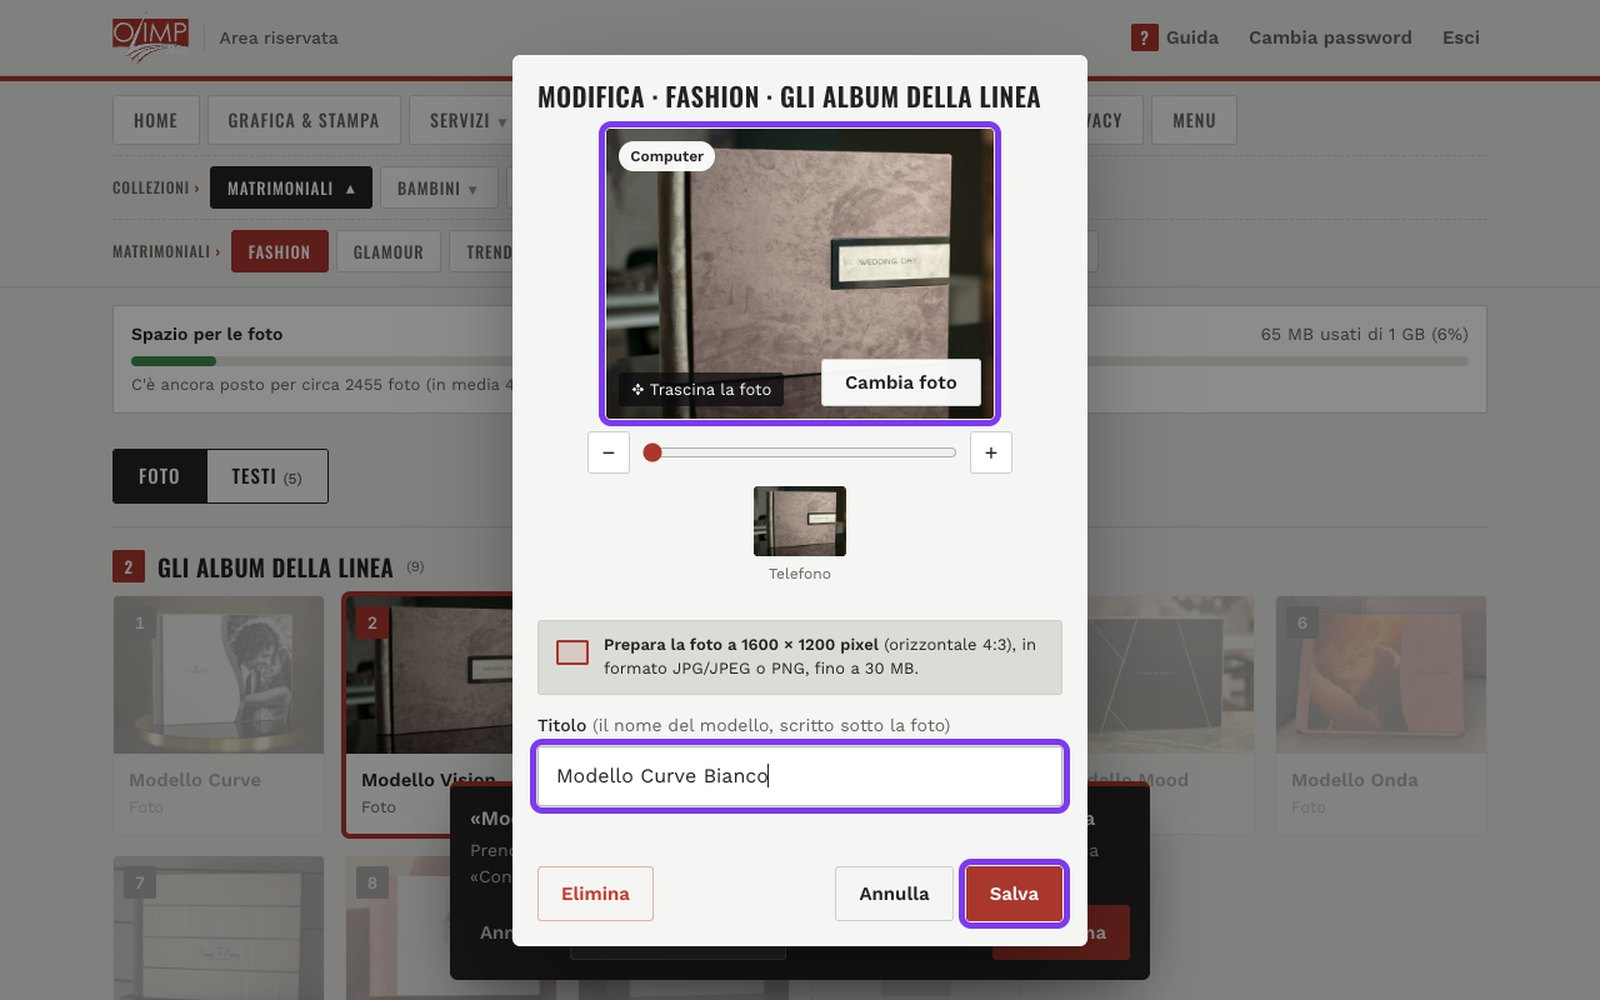
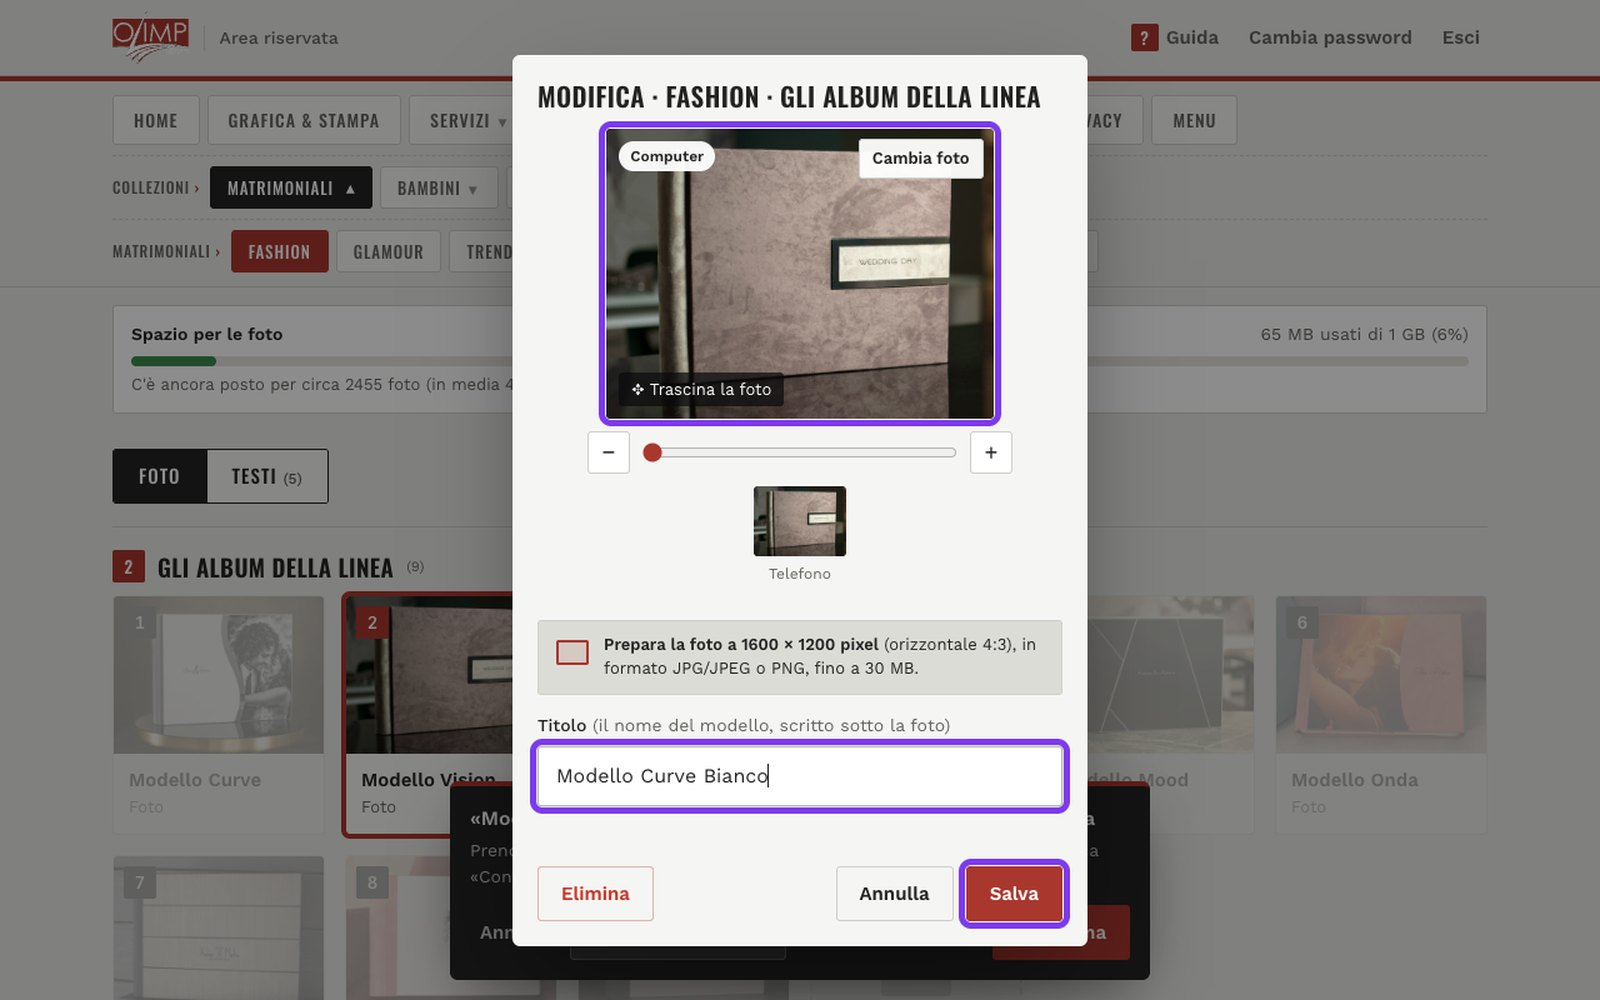
Area riservata: «Cambia foto» in alto a destra nell'anteprima da trascinare (come inkubo 6.14); schermate della guida rifatte; versione 3.31 nel LEGGIMI

Changed region(s): [[0.5, 0.341, 0.625, 0.434], [0.5312, 0.124, 0.625, 0.186], [0.4375, 0.093, 0.4688, 0.124]]

diff --git a/area-riservata.html b/area-riservata.html
@@ -219,6 +219,8 @@ dialog h2{font:700 21px/1.2 var(--head);margin-bottom:14px}
 .anteprima.libera:active{cursor:grabbing}
 .anteprima.libera:focus-visible{outline:3px solid var(--acc);outline-offset:2px}
 .anteprima.libera img{position:absolute;max-width:none;object-fit:fill;-webkit-user-drag:none;pointer-events:none}
+/* con la foto da trascinare «Cambia foto» sale in alto a destra, così non copre «Trascina la foto» */
+.anteprima.libera .cambia{top:8px;right:8px;bottom:auto;z-index:2;min-height:28px;padding:5px 10px;font-size:13px}
 .anteprima .mano{position:absolute;left:10px;bottom:10px;z-index:1;padding:6px 10px;border-radius:3px;background:rgba(10,10,12,.72);color:#fff;font-size:13px;line-height:1.2;pointer-events:none}
 .zoom-riga{display:flex;align-items:center;gap:10px;max-width:340px;margin:-6px auto 14px;font-size:13px;color:var(--mute)}
 .zoom-riga[hidden]{display:none}
